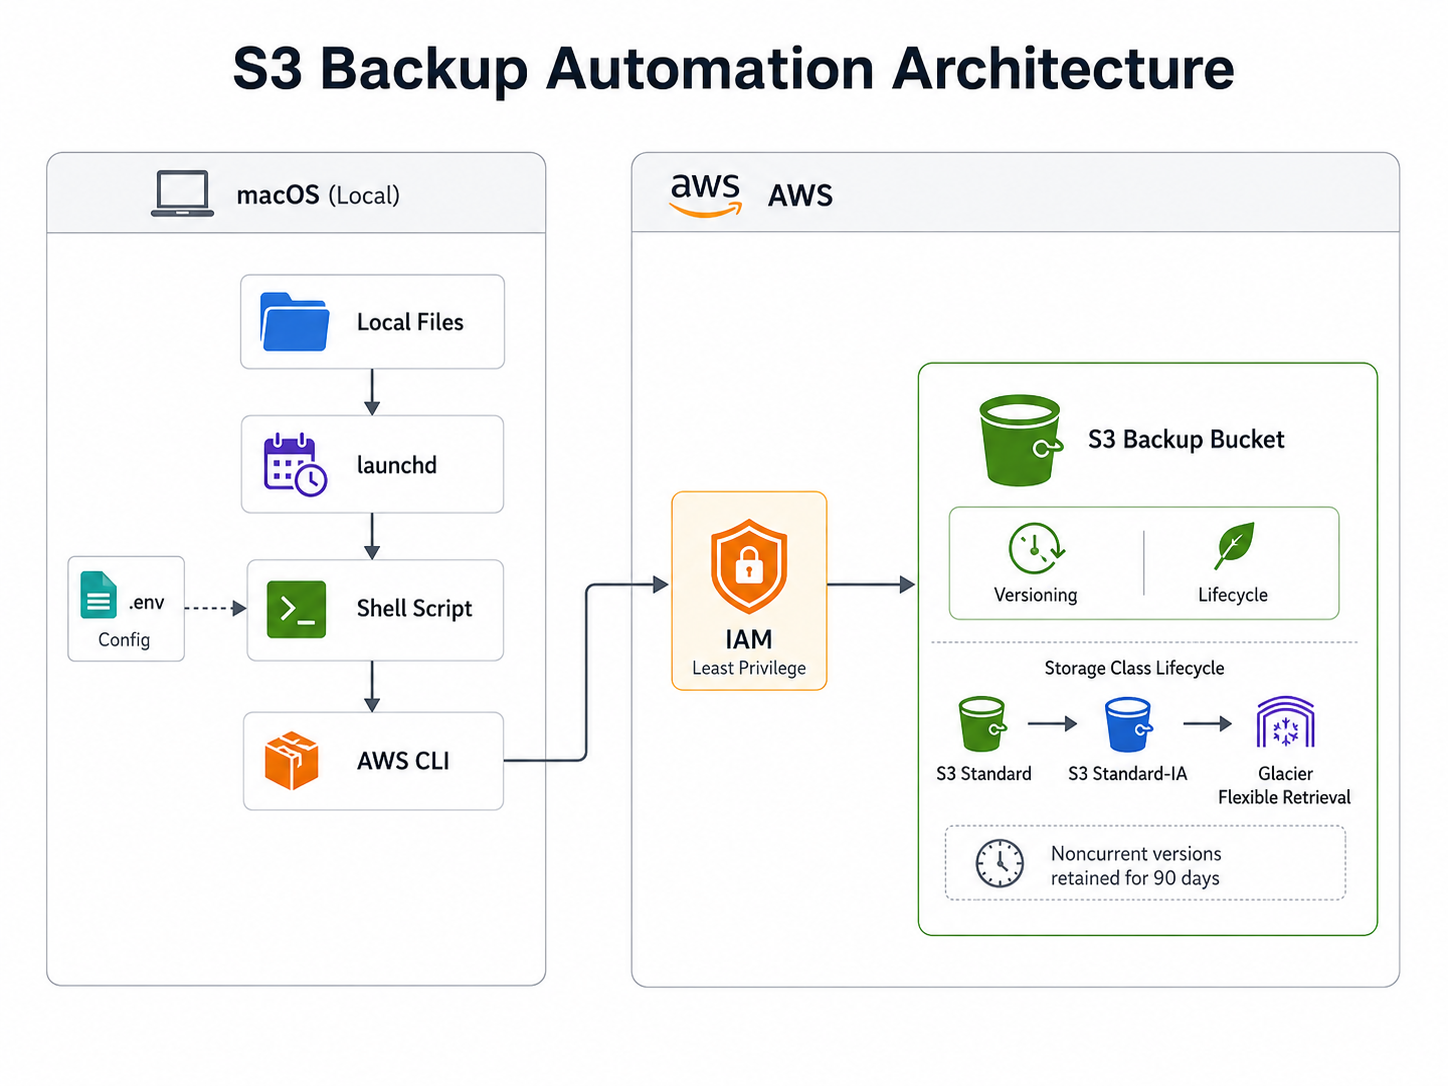
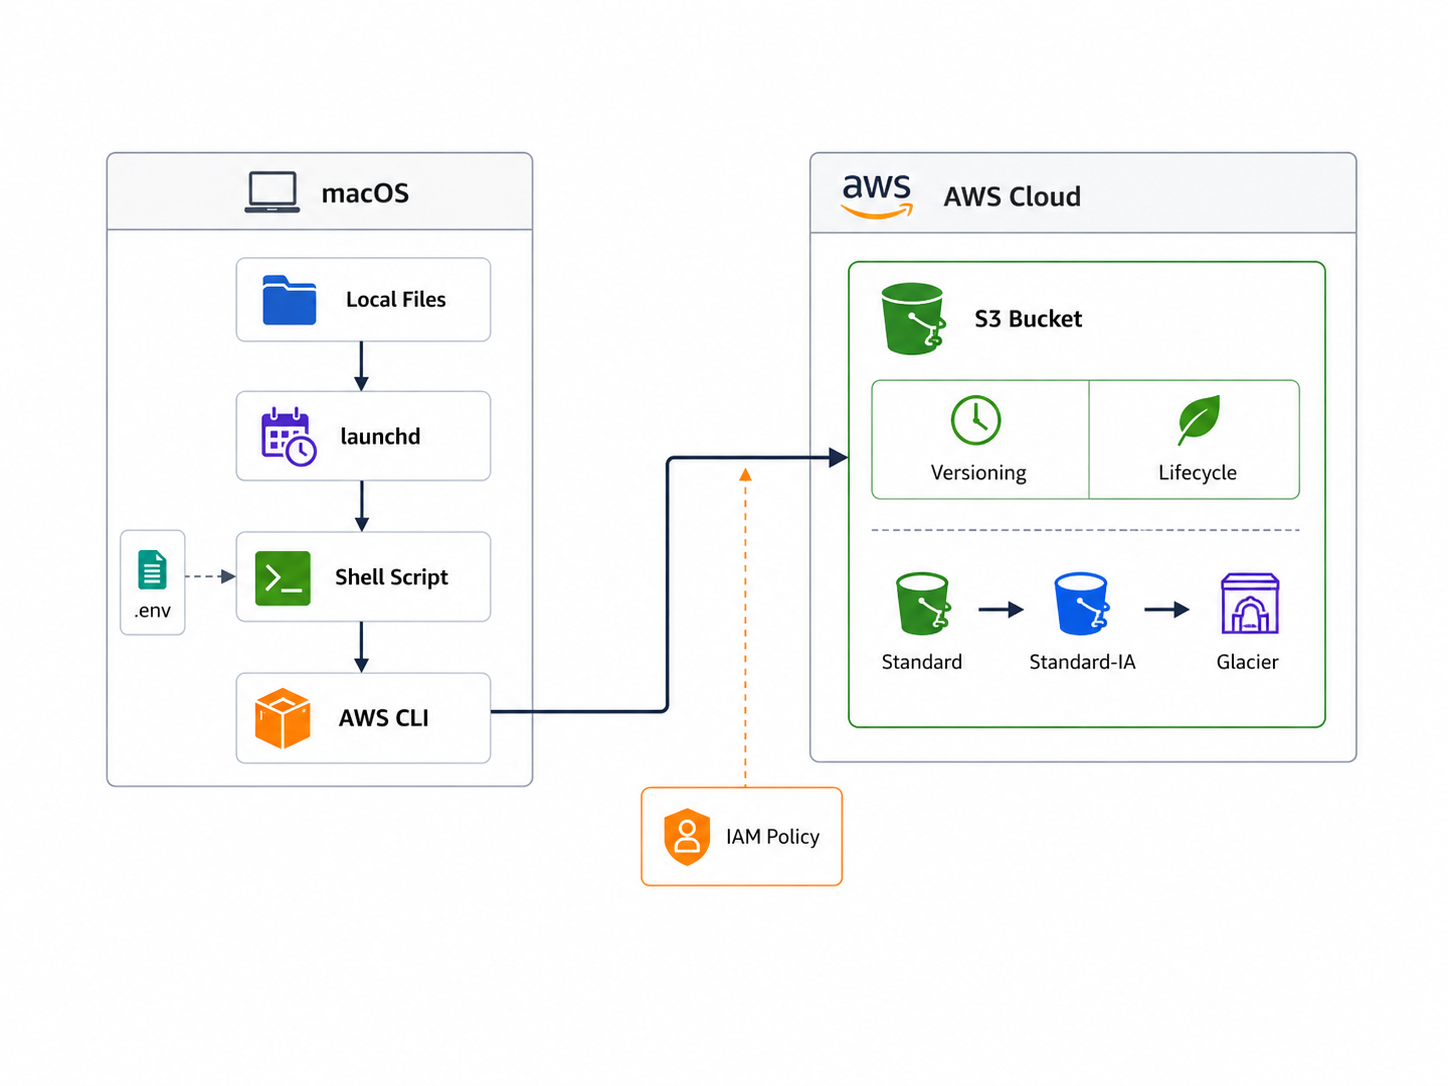
Refine architecture diagram and IAM flow

diff --git a/architecture/architecture.md b/architecture/architecture.md
@@ -36,8 +36,8 @@ flowchart TB
     LAUNCHD --> SCRIPT
     ENV --> SCRIPT
     SCRIPT --> AWSCLI
-    AWSCLI --> IAM
-    IAM --> OBJECTS
+　　AWSCLI --> OBJECTS
+　　IAM -.-> OBJECTS
 
     OBJECTS --> VERSIONING
     OBJECTS --> LIFECYCLE
